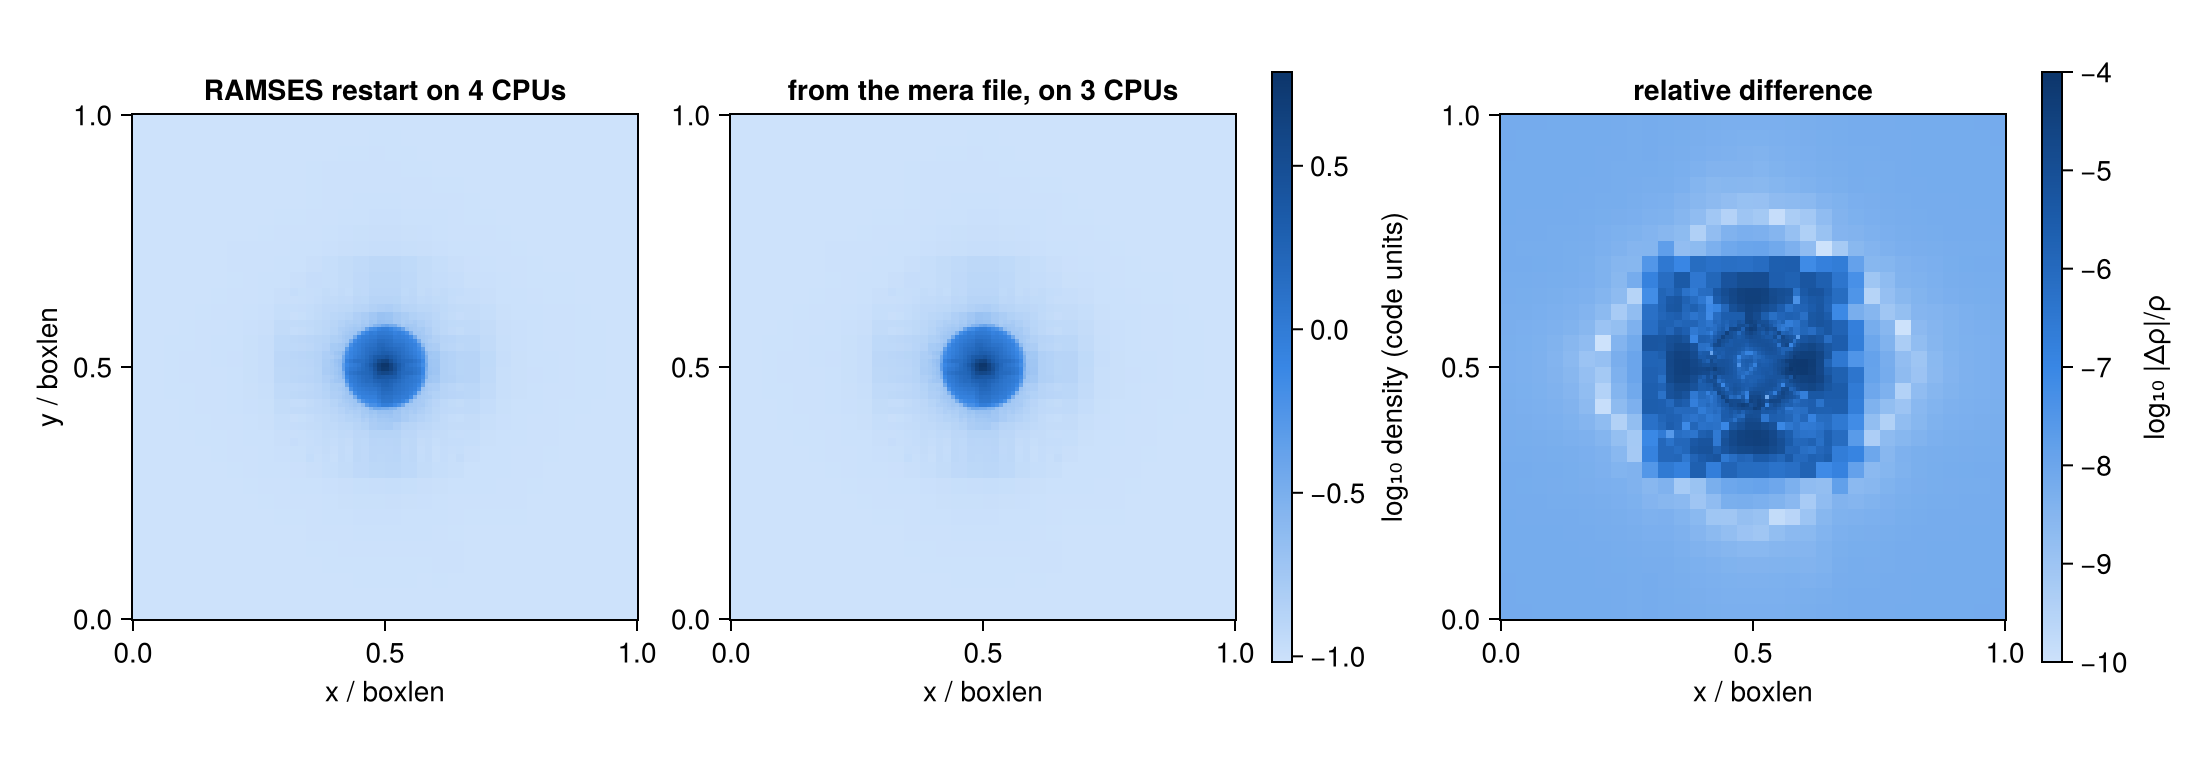
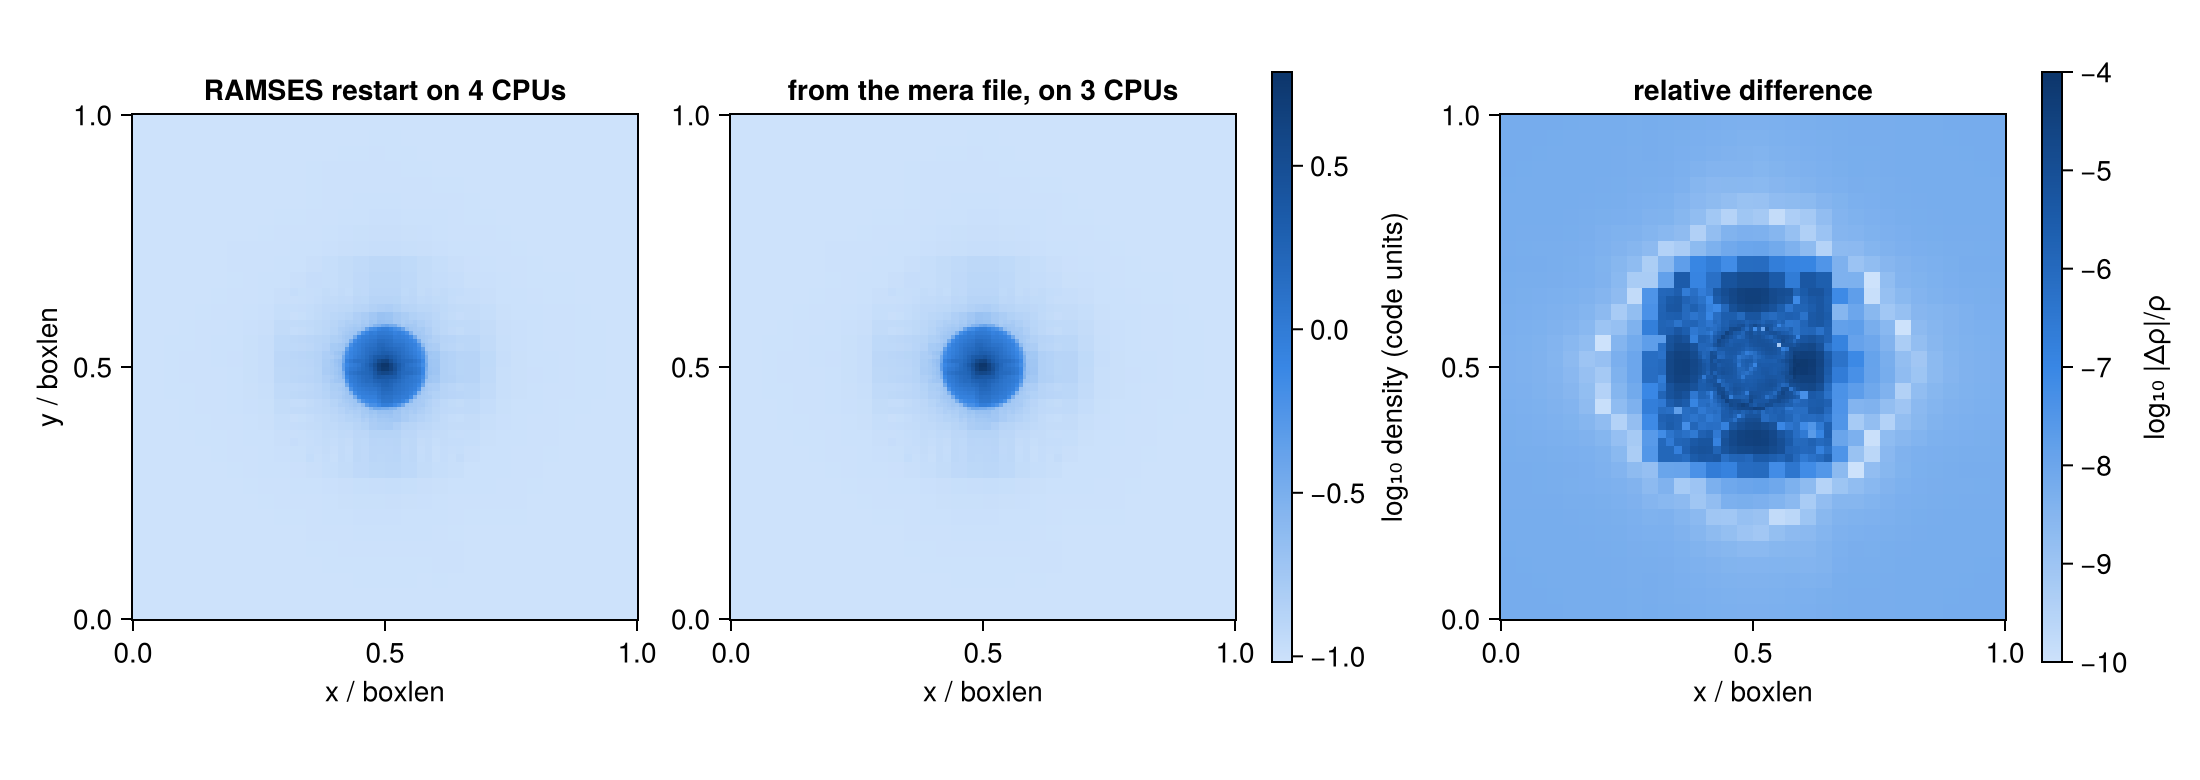
docs(ramses): Mera-data restarts after the parent fix, and where gravity differs
- the rebuilt parents equal RAMSES's; hydro runs restart from Mera data to round-off
- live table of every run the build can restart (was the suite's old numbers)
- experiment: with RAMSES's own gravity files the restart reaches round-off, so the rest is the
  rebuilt coarse potential

Changed region(s): [[0.7418, 0.3077, 0.8655, 0.6462], [0.7418, 0.4308, 0.7727, 0.4615]]

diff --git a/docs/src/07_2_multi_RAMSES_Restart.md b/docs/src/07_2_multi_RAMSES_Restart.md
@@ -17,7 +17,7 @@ the output. Mera can rewrite an output for any other number, in two ways:
 | you have | use | result |
 |---|---|---|
 | the RAMSES output | [`repartition`](@ref) | every value bit-identical; RAMSES continues the run to round-off |
-| only Mera data or a mera file | [`writeramses`](@ref) | leaves bit-identical; refined cells rebuilt from them; RAMSES continues the run, physically consistent |
+| only Mera data or a mera file | [`writeramses`](@ref) | leaves bit-identical, refined cells rebuilt as RAMSES does; RAMSES continues hydro runs to round-off, runs with gravity within its solver tolerance |
 
 This page shows what each step does and why, and then checks the result four ways: against
 RAMSES's own files, value by value, by RAMSES reading the files without taking a step, and by
@@ -65,6 +65,7 @@ println("dm_gas: ncpu = ", getinfo(4, DMGAS, verbose=false).ncpu, ", particles: 
 | ||_|| |   |___|   |  | |   _   |
 |_|   |_|_______|___|  |_|__| |__|
 Mera v1.8.0 | Julia 1.12.7 | 8 threads
+[ Info: Mera v1.8.0
 sedov:  ncpu = 4, levels 4 to 7, 10000 grids max per rank
 dm_gas: ncpu = 4, particles: 30000
 ```
@@ -313,11 +314,11 @@ rep = repartition(6, SEDOV, 3; outpath=joinpath(WORK, "sedov_3cpu"));
 [5/5] particles, clump tables and text files
 RAMSES output repartitioned: ncpu 4 → 3
   from : /Volumes/FASTStorage/projects/RamsesConverter/testruns/sedov3d_amr_lb_ncpu4/output_00006
-  to   : /var/folders/k5/gw4hqgwj5_qf8sljz0091x1m0000gp/T/jl_Xlv54X/sedov_3cpu/output_00006
+  to   : /var/folders/k5/gw4hqgwj5_qf8sljz0091x1m0000gp/T/jl_1i6wns/sedov_3cpu/output_00006
   own grids per rank      : min 335, max 338
   grids in memory per rank: min 592, max 673  (own + ghost + boundary)
   restart namelist needs  : ngridmax ≥ 674
-  14 files written in 0.6 s
+  14 files written in 0.7 s
 ```
 
 The report's last numbers go into the restart namelist: each rank must be allowed at least
@@ -665,7 +666,7 @@ cells, and a few header numbers. [`writeramses`](@ref) rebuilds them:
 |---|---|---|
 | the octree | leaf cells with level and position | every leaf implies all its ancestors: rebuilt exactly |
 | leaf values | all variables, code units | copied |
-| refined-cell values | not stored | average of the 8 children in conserved variables (mass, momentum, total energy), bottom up, as RAMSES's `upload_fine` |
+| refined-cell values | not stored | average of the 8 children, bottom up, exactly as RAMSES's `upload_fine`: mass and momentum, and internal energy (for `interpol_var` 1 or 2, else total energy) |
 | ghost and boundary grids, pointers | not stored | built as in `repartition` |
 | time, per-level time steps, energy bookkeeping | `info.grid_info.amr_header` | copied (saved in mera files since Mera 1.8.0) |
 
@@ -737,7 +738,8 @@ one cell removed              NO        full coverage, gravity cells
 ### Through a mera file, back to RAMSES
 
 The complete data is saved as a mera file, loaded again as a user without the RAMSES output would,
-and written as a 3-CPU RAMSES output. Its leaves must equal the original's exactly.
+and written as a 3-CPU RAMSES output. Its leaves must equal the original's exactly, and the
+rebuilt refined cells must equal the ones RAMSES stored.
 
 ```julia
 mf = mkpath(joinpath(WORK, "merafile"))
@@ -754,12 +756,15 @@ println("same octree: ", c.same_tree)
 println(@sprintf("leaf cells, largest difference: hydro %.1e, gravity %.1e", maximum(c.maxdiff["hydro"]),
                  maximum(c.maxdiff["grav"])))
 println("particles: ", c.nparticles, @sprintf(", largest position difference %.1e", c.particle_maxdiff[1]))
+call = compareramses(4, DMGAS, runm)                    # all cells: leaves AND rebuilt parents
+println("rebuilt refined cells, hydro per variable: ", join((@sprintf("%.1e", x) for x in call.maxdiff["hydro"]), "  "))
 ```
 
 ```
 same octree: true
 leaf cells, largest difference: hydro 0.0e+00, gravity 0.0e+00
 particles: (30000, 30000), largest position difference 0.0e+00
+rebuilt refined cells, hydro per variable: 4.5e-18  2.7e-16  2.7e-16  2.7e-16  2.9e-16
 ```
 
 ### What RAMSES makes of it
@@ -783,7 +788,7 @@ println(@sprintf("leaf cells, largest difference: hydro %.1e, gravity %.1e, part
 ```
 RAMSES on 3 ranks finished: true
 same octree: true
-leaf cells, largest difference: hydro 6.0e-05, gravity 3.4e-06, particle position 2.3e-06 boxlen
+leaf cells, largest difference: hydro 4.6e-05, gravity 3.4e-06, particle position 2.3e-06 boxlen
 ```
 
 ```julia
@@ -807,56 +812,108 @@ fig
 ```
 
 ```
-median |Δρ|/ρ in this slice: 6.1e-09,  largest: 9.1e-05
+median |Δρ|/ρ in this slice: 5.6e-09,  largest: 9.0e-05
 ```
 
 ![](07_2_multi_RAMSES_Restart_files/07_2_multi_RAMSES_Restart_38_2.png)
 
-The octree is the same and the differences are small, but larger than round-off. The figure shows
-where they sit: only in the refined region around the centre, where parent cells were rebuilt,
-typically `1e-8` and `1e-4` at most. The reason is known. After averaging the children, RAMSES's hydro update applies `pressure_fix` to refined cells
-as well, so their stored energy is not exactly the average of the children. RAMSES uses those
-parent values once, in the first step after the restart, before it overwrites them. The mera
-file does not hold them, so they are rebuilt, and the run is **physically consistent, but not
-bit-identical** to a restart from the original files. MHD has no `pressure_fix` and stays at
-round-off. Gravity adds a second effect: the Poisson solver starts from the rebuilt coarse
-potential and converges to its tolerance, not to the last bit.
+The octree is the same, and the differences are small but above round-off: the gas differs by at
+most `5e-5`, only in the refined region around the centre (figure), and the potential by `3e-6`.
+The cause is **gravity**, and the next cell proves it: the same output written from the mera
+file, but with RAMSES's own gravity files put in place of the rebuilt ones, restarts to round-off.
 
-The suite's result for every run:
+RAMSES solves the Poisson equation on every level separately and keeps each level's potential in
+its refined cells. After a restart it starts its next solve from those, and stops once it meets
+its tolerance. A mera file holds only the leaf potential, so the coarse potentials are rebuilt as
+the average of the children, which differs from RAMSES's own by 0.3 to 0.6 % on the levels it
+solves. Starting from there, the solver converges to an answer that differs within its tolerance,
+and the gas follows the gravity.
+
+The hydro parents are exact. With `interpol_var` 1 or 2, RAMSES averages the children's
+**internal** energy into the parent and adds the parent's own kinetic energy
+(`hydro/interpol_hydro.f90`, `upl`). `writeramses` does the same, so the rebuilt parents equal
+RAMSES's to `1e-16` (the last line of the mera-file cell above). Averaging the total energy
+instead, as an earlier version did, leaves the parent too hot by the kinetic energy of the velocity
+differences inside it; that alone cost `2e-4` after a restart of the AMR Sedov run.
 
 ```julia
-println(rpad("run", 28), rpad("octree", 8), rpad("hydro", 9), rpad("grav", 9), rpad("rt", 9), "particles |Δx|")
-# leaf cells, as above
-for r in readsuite("mera_restart.csv")
-    println(rpad(r["run"], 28), rpad(r["same_octree"] ? "same" : "DIFF", 8),
-            rpad(fmt(r["hydro_leaves"]), 9), rpad(fmt(r["grav_leaves"]), 9), rpad(fmt(r["rt_leaves"]), 9),
-            fmt(r["dx_boxlen"]))
+# The experiment: the output written from the mera file, with RAMSES's exact gravity files (taken
+# from a repartition of the original to the same 3 ranks, whose grids are laid out identically).
+rep3 = joinpath(WORK, "dm_gas_rep3")
+repartition(4, DMGAS, 3; outpath=rep3, verbose=false)
+swap = joinpath(WORK, "from_merafile_exact_grav"); cp(runm, swap; force=true)
+rm(joinpath(swap, "output_00005"); recursive=true)                     # the earlier restart's output
+println("amr files identical to repartition's: ",
+        all(read(joinpath(rep3, "output_00004", f)) == read(joinpath(swap, "output_00004", f))
+            for f in readdir(joinpath(rep3, "output_00004")) if startswith(f, "amr_")))
+for f in readdir(joinpath(rep3, "output_00004"))
+    startswith(f, "grav_") && cp(joinpath(rep3, "output_00004", f), joinpath(swap, "output_00004", f); force=true)
+end
+println("RAMSES on 3 ranks finished: ", run_ramses(swap, "run.nml", 4, 3))
+c = compareramses(5, joinpath(RUNS, "dm_gas3d_ncpu4_restart"), swap; leaves_only=true)
+println(@sprintf("with RAMSES's gravity files: hydro %.1e, gravity %.1e, particle position %.1e boxlen",
+                 maximum(c.maxdiff["hydro"]), maximum(c.maxdiff["grav"]), c.particle_maxdiff[1]))
+```
+
+```
+amr files identical to repartition's: true
+RAMSES on 3 ranks finished: true
+with RAMSES's gravity files: hydro 7.2e-15, gravity 8.0e-15, particle position 5.6e-16 boxlen
+```
+
+Every run this RAMSES build can restart, from Mera data, on 3 ranks, against RAMSES's own restart
+(leaf cells, one output later):
+
+```julia
+mruns = [("sedov3d_amr_lb_ncpu4", 6), ("sedov3d_uniform_ncpu4", 5), ("sedov3d_outflow_ncpu4", 4),
+         ("sedov3d_grav_part_ncpu4", 6), ("dm_gas3d_ncpu4", 4), ("sinks3d_ncpu4", 4),
+         ("clumps3d_ncpu4", 3), ("starform3d_ncpu4", 4)]
+println(rpad("run", 26), rpad("physics", 36), rpad("octree", 8), rpad("hydro", 9), rpad("grav", 9), "particles |Δx|")
+for (run, o) in mruns
+    ri = getinfo(o, joinpath(RUNS, run), verbose=false)
+    d  = (hydro     = gethydro(ri; q...),
+          gravity   = ri.gravity   ? getgravity(ri; q...)   : nothing,
+          particles = ri.particles ? getparticles(ri; q...) : nothing,
+          sinks     = ri.sinks     ? getsinks(ri; verbose=false) : nothing)
+    dir = joinpath(WORK, "mera_restart_" * run)
+    w   = writeramses(3; d..., outpath=dir, verbose=false)
+    nmlf = only(filter(endswith(".nml"), readdir(joinpath(RUNS, run))))
+    restart_namelist(joinpath(RUNS, run, nmlf), joinpath(dir, nmlf);
+                     ngridmax=max(20_000, round(Int, 1.3 * w.ngridmax_needed)),
+                     npartmax=isempty(w.npart_per_rank) ? 0 : max(200_000, 3 * w.npart_max))
+    run_ramses(dir, nmlf, o, 3) || (println(rpad(run, 26), "RAMSES FAILED"); continue)
+    c = compareramses(o + 1, joinpath(RUNS, run * "_restart"), dir; leaves_only=true)
+    phys = join(filter(!isempty, ["hydro", ri.gravity ? "gravity" : "", ri.particles ? "particles" : "",
+                                  ri.sinks ? "sinks" : ""]), " + ")
+    println(rpad(run, 26), rpad(phys, 36), rpad(c.same_tree ? "same" : "DIFF", 8),
+            rpad(@sprintf("%.0e", maximum(c.maxdiff["hydro"])), 9),
+            rpad(haskey(c.maxdiff, "grav") ? @sprintf("%.0e", maximum(c.maxdiff["grav"])) : "–", 9),
+            c.nmatched > 0 ? @sprintf("%.0e", c.particle_maxdiff[1]) : "–")
 end
 ```
 
 ```
-run                         octree  hydro    grav     rt       particles |Δx|
-sedov3d_amr_lb_ncpu4        same    2e-04    –        –        –
-sedov3d_amr_lb_ncpu8        same    2e-04    –        –        –
-sedov3d_amr_ncpu1           same    2e-04    –        –        –
-sedov3d_amr_ncpu3           same    2e-04    –        –        –
-sedov3d_uniform_ncpu4       same    5e-16    –        –        –
-sedov3d_outflow_ncpu4       same    1e-07    –        –        –
-dm_gas3d_ncpu4              same    6e-05    3e-06    –        2e-06
-sedov3d_grav_part_ncpu4     same    2e-04    1e-05    –        –
-starform3d_ncpu4            same    5e-02    8e-03    –        1e-01
-sinks3d_ncpu4               same    2e-15    2e-12    –        –
-clumps3d_ncpu4              same    2e-15    8e-15    –        –
-mhdtube3d_ncpu4             same    7e-16    –        –        –
-stromgren3d_ncpu4           same    0e+00    –        0e+00    –
+run                       physics                             octree  hydro    grav     particles |Δx|
+sedov3d_amr_lb_ncpu4      hydro                               same    8e-16    –        –
+sedov3d_uniform_ncpu4     hydro                               same    5e-16    –        –
+sedov3d_outflow_ncpu4     hydro                               same    7e-15    –        –
+sedov3d_grav_part_ncpu4   hydro + gravity + particles         same    3e-07    3e-08    –
+dm_gas3d_ncpu4            hydro + gravity + particles         same    5e-05    3e-06    2e-06
+sinks3d_ncpu4             hydro + gravity + particles + sinks same    2e-15    2e-12    –
+clumps3d_ncpu4            hydro + gravity                     same    2e-15    8e-15    –
+starform3d_ncpu4          hydro + gravity + particles         same    5e-02    8e-03    1e-01
 ```
 
 | run type | difference after one output | why |
 |---|---|---|
-| uniform grids, MHD, sinks, clumps, RT | round-off | nothing is lost |
-| AMR hydro | `1e-7` to `2e-4` | refined cells rebuilt; RAMSES's `pressure_fix` is not an average |
-| gravity | potential `3e-6` to `1e-5`, particles `2e-6` box lengths | the Poisson solver restarts from the rebuilt coarse potential |
+| hydro only (AMR, uniform, physical boundaries) | round-off | the rebuilt parents are RAMSES's own |
+| with self-gravity | round-off in two of the four runs; otherwise gas up to `5e-5`, potential up to `3e-6`, particles `2e-6` box lengths | the coarse potentials are rebuilt from the children, and the Poisson solver converges to its tolerance from there |
 | stochastic star formation | statistical | random seeds depend on the rank count |
+
+The MHD and radiative-transfer builds of RAMSES are not on this machine, so those two runs are not
+in the table; in the converter's suite both restarted from Mera data to round-off. A restart from
+Mera data of a run with gravity could reach round-off only if mera files also kept the coarse
+potentials.
 
 When the RAMSES files still exist, `repartition` is the exact route. `writeramses` is for the
 case where only Mera data is left.
@@ -880,7 +937,8 @@ upgrade_merafile(250, "/merafiles"; simulation="/new/place/sim")  # simulation m
 - `repartition(output, path, ncpu; outpath)` rewrites a RAMSES output for any number of ranks.
   Values bit-identical; RAMSES continues to round-off.
 - `writeramses(ncpu; hydro, gravity, particles, sinks, outpath)` writes one from complete Mera
-  data, also from a mera file. Leaves bit-identical; the restart is physically consistent.
+  data, also from a mera file. Leaves bit-identical; hydro runs restart to round-off, runs with
+  gravity within RAMSES's Poisson tolerance.
 - `restart_completeness` proves the data is complete; `compareramses` checks any two outputs.
 - Set `ngridmax` and `npartmax` in the restart namelist from the report, and start RAMSES with
   `mpirun -np ncpu ramses3d run.nml output`.
